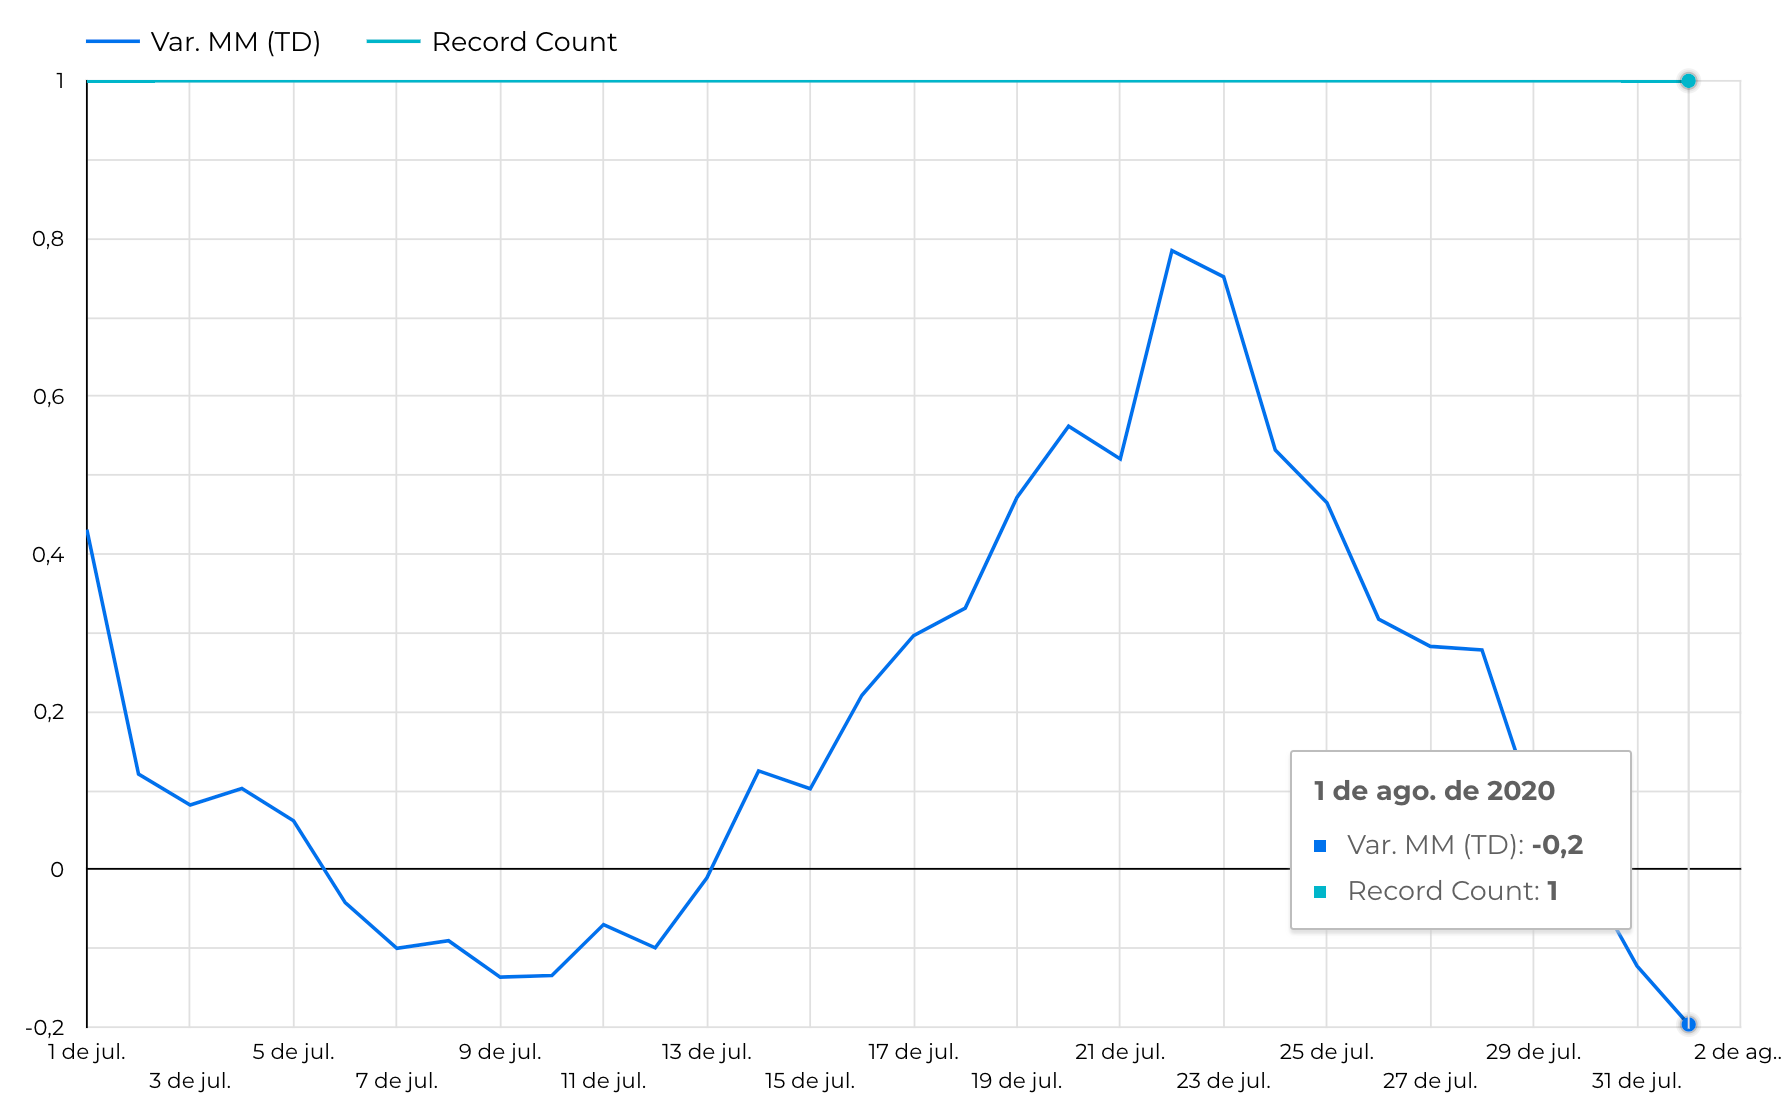
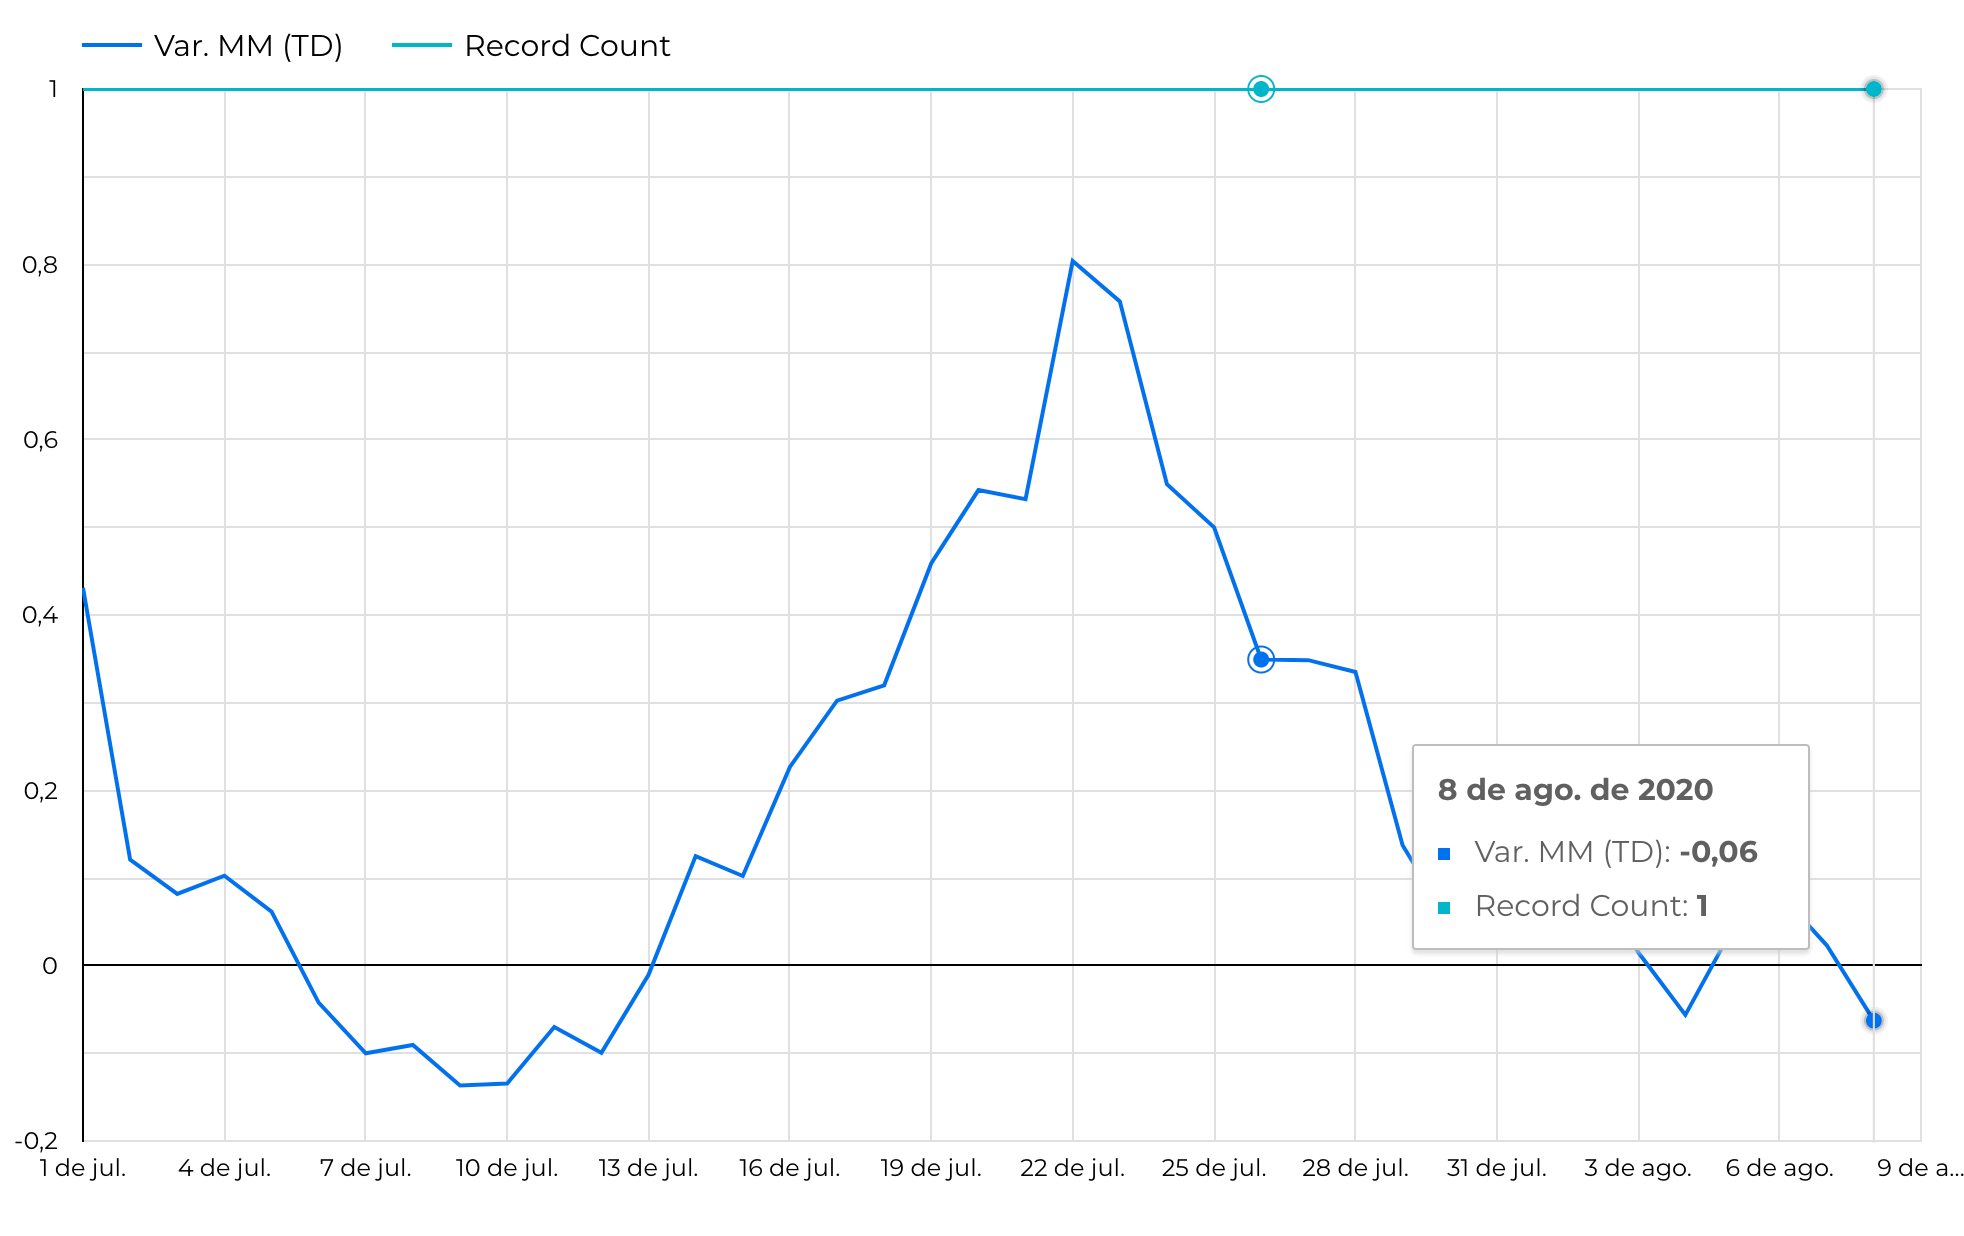
Atualização dados

diff --git a/index.html b/index.html
@@ -68,7 +68,7 @@
     <div class="navbar-brand-mobile-wrapper d-inline-flex d-sm-none" data-toggle="collapse" data-target="#navbarSupportedContent"
       aria-controls="navbarSupportedContent" aria-expanded="false" aria-label="Toggle navigation"> <!--nav-item destaque-->
       <a href="#">
-        Observatório Uberaba - MG
+        Observatório Covid-19 Uberaba - MG
       </a>
     </div>
 
@@ -109,7 +109,7 @@
   <div class="container-fluid main-title-bg" style="padding-bottom: 2rem; border-color:#34c1ad;">
     <!-- PAGE.TITLE -->
     <div class="main-title">
-      <h1 class="display" id="page-title">Observatório Uberaba</h1>
+      <h1 class="display" id="page-title">Observatório Covid-19 Uberaba</h1>
       <!-- CARD.TEXT -->
       <p class="text-justify">
         O Observatório Covid-19 Uberaba é fruto de uma parceria de pesquisadores da Universidade Federal do Triângulo Mineiro (UFTM) com a Secretária Municipal de Saúde de Uberaba. O intuito é apresentar gráficos e projeções embasadas em análises científicas para auxiliar os gestores públicos da cidade nas tomadas de decisão.
@@ -133,7 +133,7 @@
               <!-- CARD.TITLE.TEXT -->
               <h2 class="display">Casos de Uberaba</h2>
             <!--/a-->
-            <p class="card-text">Dados e projeções para o município de Uberaba, informações até o dia 01 de agosto de 2020. Informações coletadas com a própria Secretaria Municipal de Saúde de Uberaba.</p>
+            <p class="card-text">Dados e projeções para o município de Uberaba, informações até o dia 08 de agosto de 2020. Informações coletadas com a própria Secretaria Municipal de Saúde de Uberaba.</p>
             <!-- CARD.TITLE.DESCRIPTION -->
           </div>
         </div>
@@ -145,8 +145,8 @@
 
         <p class="text-justify mt-3">
             <ul>
-            <li>No dia de hoje (01/08/2020), acumulamos 1816 casos notificados.</li>
-            <li>Projeção para dia 06 de agosto é de 1939 podendo chegar até 2157 casos notificados, como indicado pela faixa cinza.</li>
+            <li>No dia de hoje (08/08/2020), acumulamos 2133 casos notificados.</li>
+            <li>Projeção para dia 13 de agosto é de 2303 podendo chegar até 2514 casos notificados, como indicado pela faixa cinza.</li>
             <li>Pontos pretos: número de casos confirmados a cada dia.</li>
             <li>Pontos laranjas: a previsão para os próximos 5 dias.</li>
             </ul>
@@ -174,7 +174,7 @@
         </div>
 
         <p class="text-justify mt-3">
-        Todos os dados foram obtidos da própria Secretária Municipal de Saúde de Uberaba até o dia 01 de agosto de 2020.
+        Todos os dados foram obtidos da própria Secretária Municipal de Saúde de Uberaba até o dia 08 de agosto de 2020.
         </p>
 
 <!--        <a href="https://datastudio.google.com/reporting/1CX1pHjDrbb7X1gEIeVY1sxQp8PziWgpN/page/g6OUB?s=hWFHXQaeMZY" target="_blank">
@@ -185,50 +185,82 @@
 
 
         <a href="https://datastudio.google.com/reporting/1eNQdQv-rpu3yne8bvqD71-j8gS44fYts/page/sLUUB?s=sfL5MYwUyi4" target="_blank">
-          <img src="./web/municipios/MG/Uberaba/indicadores1.png" class="img-fluid" style="max-height:600px;" alt="Gŕafico mostrando os indicadores da cidade de Uberaba.">
+          <img src="./web/municipios/MG/Uberaba/indicadores2.png" class="img-fluid" style="max-height:600px;" alt="Gŕafico mostrando os indicadores da cidade de Uberaba.">
         </a>
 
         <p class="text-justify mt-3"> Figura 2: Indicadores dos casos de Covid-19 em Uberaba. Clique na imagem para ver o gráfico interativo </p>
 
         <p class="text-justify mt-3">
-        Uma informação importante que vem sendo apresentada por pesquisadores da área, refere-se a média móvel. A Figura 3, apresenta a média móvel dos casos confirmados considerando um intervalo de sete dias. Os números diários têm variações muito grandes e isso não têm necessariamente relação com o avanço do vírus, como atrasos nos registros, falta de testes, entre outros problemas, o novo gráfico busca reduzir esses efeitos.
+        Os gráficos da Figura 2 apresentam um panorama geral da evolução da covid-19 na cidade de Uberaba. No dia 08/08/2020 a cidade apresenta 2133 casos notificados confirmados dos quais 79% são considerados recuperados.
+        </p>
+
+        <div class="media-body">
+            <h3 class="card-title">Média Móvel e sua Variação</h3>
+        </div>
+
+        <p class="text-justify mt-3">
+        Uma informação importante que vem sendo apresentada por pesquisadores da área, refere-se a média móvel. Os números diários têm variações muito grandes e isso não têm necessariamente relação com o avanço do vírus, como atrasos nos registros, falta de testes, entre outros problemas, o novo gráfico busca reduzir esses efeitos.</p>
+
+        <p class="text-justify mt-3">
+        A <b>Média Móvel </b> corresponde à média dos valores de um período, de forma a suavizar as flutuações. O tamanho do período utilizado vai depender do problema. No caso do coronavírus, pelo padrão dos dados, faz sentido escolher um período de sete dias.</li>
+        </p>
+
+        <p class="text-justify mt-3">
+        A Figura 3, apresenta a média móvel dos casos confirmados considerando um intervalo de sete dias. A média móvel dos casos confirmados em Uberaba no dia 08/08 é de 2046.
         </p>
 
         <a href="https://datastudio.google.com/reporting/1eNQdQv-rpu3yne8bvqD71-j8gS44fYts/page/sLUUB?s=sfL5MYwUyi4" target="_blank">
-          <img src="./web/municipios/MG/Uberaba/mediamovel.png" class="img-fluid" style="max-height:600px;" alt="Gŕafico mostrando os indicadores da cidade de Uberaba.">
+          <img src="./web/municipios/MG/Uberaba/mediamovel1.png" class="img-fluid" style="max-height:600px;" alt="Gŕafico mostrando os indicadores da cidade de Uberaba.">
         </a>
 
         <p class="text-justify mt-3"> Figura 3: Total acumulado de casos de Covid-19 em Uberaba e média móvel considerando intervalos de sete dias. </p>
 
         <p class="text-justify mt-3">
-       A Figura 4 apresenta a curva de casos ativos ao longo do tempo junto com a média móvel considerando intervalos de sete dias.
+        O gráfico da Figura 3  é um gráfico sempre crescente, pois apresenta o número total de casos confirmados. Já o gráfico da Figura 4, que é o gráfico de casos ativos da covid-19 na cidade, em algum momento irá começar a diminuir.
+        </p>
+
+        <p class="text-justify mt-3">
+       A Figura 4 apresenta a curva de casos ativos ao longo do tempo junto com a média móvel considerando intervalos de sete dias. A média móvel de casos ativos da covid-19 no dia 08/08 é de 419.
         </p>
 
         <a href="https://datastudio.google.com/reporting/1eNQdQv-rpu3yne8bvqD71-j8gS44fYts/page/sLUUB?s=sfL5MYwUyi4" target="_blank">
-          <img src="./web/municipios/MG/Uberaba/casosativos.png" class="img-fluid" style="max-height:600px;" alt="Gŕafico mostrando os indicadores da cidade de Uberaba.">
+          <img src="./web/municipios/MG/Uberaba/casosativos1.png" class="img-fluid" style="max-height:600px;" alt="Gŕafico mostrando os indicadores da cidade de Uberaba.">
         </a>
 
         <p class="text-justify mt-3"> Figura 4: Casos Ativos de Covid-19 em Uberaba e média móvel considerando intervalos de sete dias. </p>
 
-        <div class="media-body">
-            <h3 class="card-title">  Aumentando, diminuindo ou em estabilidade?</h3>
-        </div>
         <p class="text-justify mt-3">
-        O tempo de incubação do novo coronavírus é de 14 dias, para saber se os números da doença estão aumentando, diminuindo ou em estabilidade, compara-se a média móvel de hoje com a de 14 dias atrás. Esse número se dá do fato que a dinâmica da infecção é de 5 dias de período de incubação, 7 dias para a pessoa procurar assistência médica. Então em média de 12 a 14 dias, você pode ter variações importantes desde o primeiro contato.
+        A <b>Variação da Média Móvel </b> corresponde à variação da média móvel comparando o valor de hoje com o de 14 dias atrás.</li>
         </p>
 
         <p class="text-justify mt-3">
-    O valor ideal para essa variação é de 15%, para mais ou para menos. O gráfico 5 apresenta a variação da média móvel para o total de casos confirmados.
+        Esse número se dá do fato que a dinâmica da infecção é de 5 dias de período de incubação, 7 dias para a pessoa procurar assistência médica. Então em média de 12 a 14 dias, você pode ter variações importantes desde o primeiro contato.
+        </p>
+
+        <p class="text-justify mt-3">
+        <ul>
+        <li> <b>Entre -15% e 15% </b> situação estável.</li>
+        <li> <b> > 15% </b> situação crescente.</li>
+        <li> <b> < - 15% </b> situação em queda.</li>
+      </ul>
+        </p>
+
+        <p class="text-justify mt-3">
+        Quando a variação da média móvel fica muitos dias em "situação estável" podemos dizer que estamos em um <b> platô </b>. O platô acontece quando o número de casos ativos permace o mesmo ao longo do tempo. O que significa que a curva de casos acumulados vai crescer em uma velocidade bem baixa, formando umalinha praticamente horizontal.
+        </p>
+
+        <p class="text-justify mt-3">
+        O gráfico 5 apresenta a variação da média móvel para o total de casos confirmados de covid-19 na cidade de Uberaba, a partir do dia 01 de julho de 2020.
         </p>
 
         <a href="https://datastudio.google.com/reporting/1eNQdQv-rpu3yne8bvqD71-j8gS44fYts/page/sLUUB?s=sfL5MYwUyi4" target="_blank">
-          <img src="./web/municipios/MG/Uberaba/variacao.png" class="img-fluid" style="max-height:600px;" alt="Gŕafico mostrando os indicadores da cidade de Uberaba.">
+          <img src="./web/municipios/MG/Uberaba/variacao1.png" class="img-fluid" style="max-height:600px;" alt="Gŕafico mostrando os indicadores da cidade de Uberaba.">
         </a>
 
-        <p class="text-justify mt-3"> Figura 5: Variação da média móvel </p>
+        <p class="text-justify mt-3"> Figura 5: Variação da média móvel de casos confirmados </p>
 
         <p class="text-justify mt-3">
-  Considerando o número de novos casos diários confirmados, olhamos para o gráfico da Figura 6, que apresenta também a informação da média móvel. A  Figura 7, apresenta a variação da média móvel dos casos diários confirmados, que no dia 01 de agosto apresentou uma variação de -20%.
+        Considerando o número de novos casos diários confirmados, olhamos para o gráfico da Figura 6, que apresenta também a informação da média móvel. A  Figura 7, apresenta a variação da média móvel dos casos diários confirmados.
         </p>
 
         <a href="https://datastudio.google.com/reporting/1eNQdQv-rpu3yne8bvqD71-j8gS44fYts/page/sLUUB?s=sfL5MYwUyi4" target="_blank">
@@ -237,11 +269,42 @@
 
         <p class="text-justify mt-3"> Figura 6: Novos casos diários confirmados e média móvel </p>
 
+        <p class="text-justify mt-3">
+        A Figura 7  apresenta a evolução da variação da média móvel dos novos casos diários a partir de 01 de julho de 2020. No dia 08/08 a variação é de -6%, nesse momento, indica situação estável, de acordo com os parâmetros usados pelos especialistas.
+        </p>
+
+
         <a href="https://datastudio.google.com/reporting/1eNQdQv-rpu3yne8bvqD71-j8gS44fYts/page/sLUUB?s=sfL5MYwUyi4" target="_blank">
           <img src="./web/municipios/MG/Uberaba/vardiarios.png" class="img-fluid" style="max-height:600px;" alt="Gŕafico mostrando os indicadores da cidade de Uberaba.">
         </a>
 
         <p class="text-justify mt-3"> Figura 7: Variação da média móvel de novos casos diários confirmados </p>
+
+        <div class="media-body">
+            <h3 class="card-title">Óbitos da Covid-19 em Uberaba</h3>
+        </div>
+
+        Duas taxas dão importantes quando precisa entender o número de óbitos de uma doença,  a taxa de letalidade e a taxa de mortalidade. A letalidade é uma taxa que compara o número de óbitos com a quantidade de pessoas infectadas pela doença. A mortalidade é um índice obtido por uma relação dos óbitos por uma causa específica em um determinado período de tempo para cada 100.000 habitantes da área analisada.
+
+        <p class="text-justify mt-3">
+        <li> A <b> taxa de letalidade </b> é calculada como o número total de óbitos dividido pelo número total de casos confirmados. Hoje, a taxa de letalidade de Uberaba é de 3,09%. Isso significa que a cada 100 pessoas que tem o dignóstico confirmado de covid-19, 3,09 dessas pessoas podem vir a óbito.</li>
+        </p>
+
+        <p class="text-justify mt-3">
+        <li>A <b>taxa de mortalidade </b> é calculada considerando o número de óbitos pelo número total da população de Uberaba vezes 100 mil. No dia 08/08/2020 a taxa de mortalidade é de 19,77/100mil habitantes. Isso significa que a cada 100 mil pessoas de Uberaba, 19,77 delas podem vir a óbito por causa da covid-19.</li>
+        </p>
+
+        <p class="text-justify mt-3">
+        O gráfico da Figura 8 apresenta a evolução do número de óbitos com a média móvel e também a variação dessa média. A variação da média móve  do número de óbitos é de 31%.
+        </p>
+
+        <a href="https://datastudio.google.com/reporting/1eNQdQv-rpu3yne8bvqD71-j8gS44fYts/page/sLUUB?s=sfL5MYwUyi4" target="_blank">
+          <img src="./web/municipios/MG/Uberaba/mortes1.png" class="img-fluid" style="max-height:600px;" alt="Gŕafico mostrando os indicadores da cidade de Uberaba.">
+        </a>
+
+        <p class="text-justify mt-3"> Figura 8: Evolução do número de óbitos com a média móvel e sua variação </p>
+
+
 
         <!-- Número reprodutivo -->
 <!--        <div class="media-body">
@@ -279,11 +342,7 @@
         </div>
 <!-- CARD.TEXT -->
         <p class="text-justify mt-3">
-          Estamos coletando dados sobre a covid-19 de cidades da região para assim podermos analisar estatisticamente como estamos reagindo a doença. Além disso, calculamos a taxa de letalidade e de mortalidade para cada uma delas para uma interpretação geral de como a doença está se comportando em cada cidade.
-
-          A letalidade é uma taxa que compara o número de óbitos com a quantidade de pessoas infectadas pela doneça.
-
-          A mortalidade é um índice obtido por uma relação dos óbitos por uma causa específica em um determinado período de tempo para cada 100.000 habitantes da área analisada.
+          Estamos coletando dados sobre a covid-19 de cidades da região para assim podermos analisar estatisticamente como estamos reagindo a doença.
         </p>
        <img src="./web/municipios/MG/Uberaba/acomparativos.png" class="img-fluid" style="max-height:600px;" alt="Gŕafico comparando Uberaba com outras cidades.">
         <p class="text-center mt-3">
